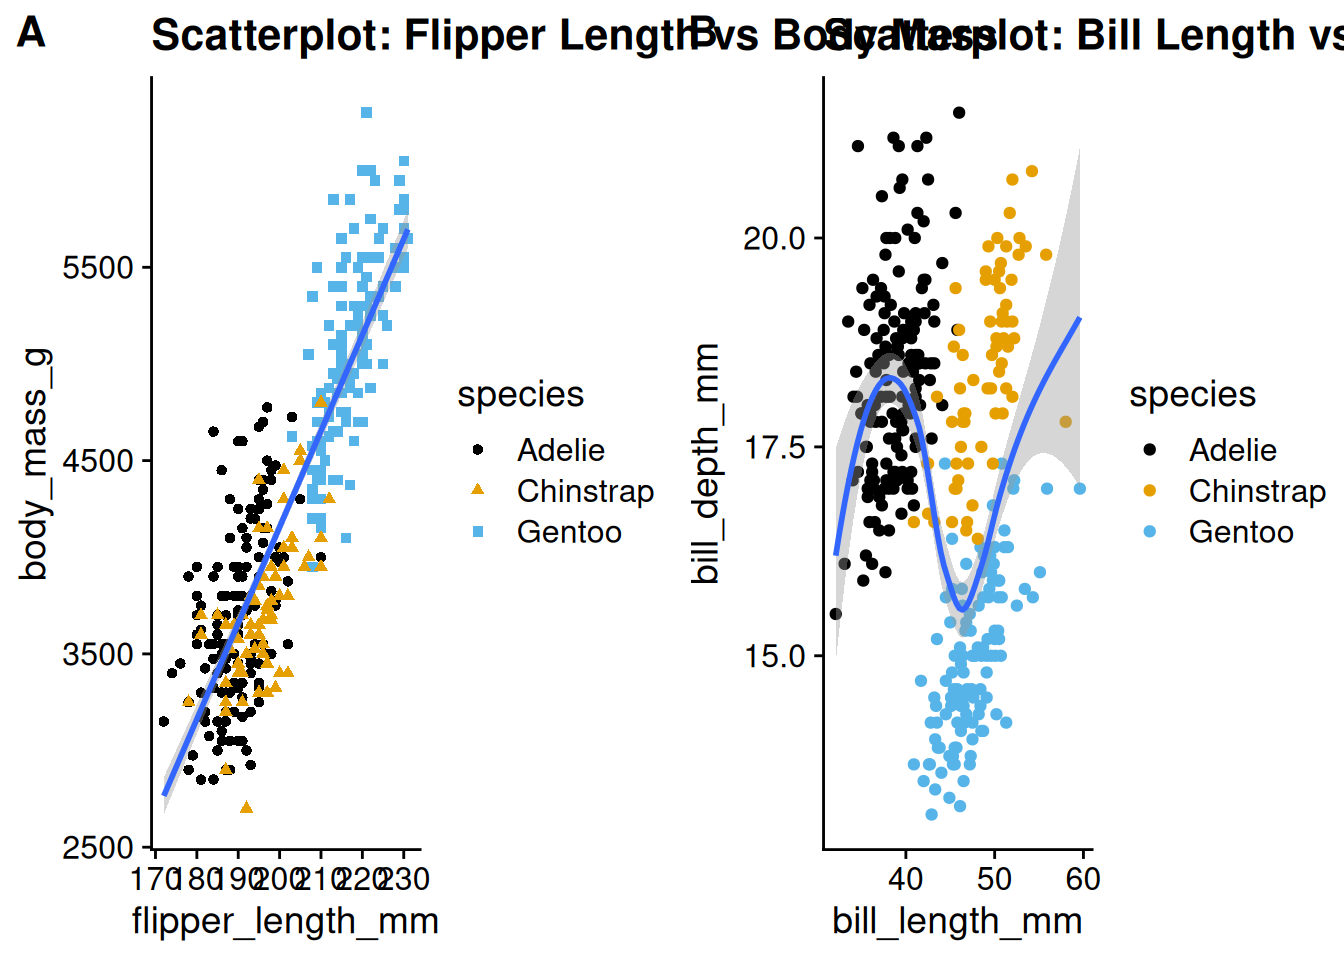
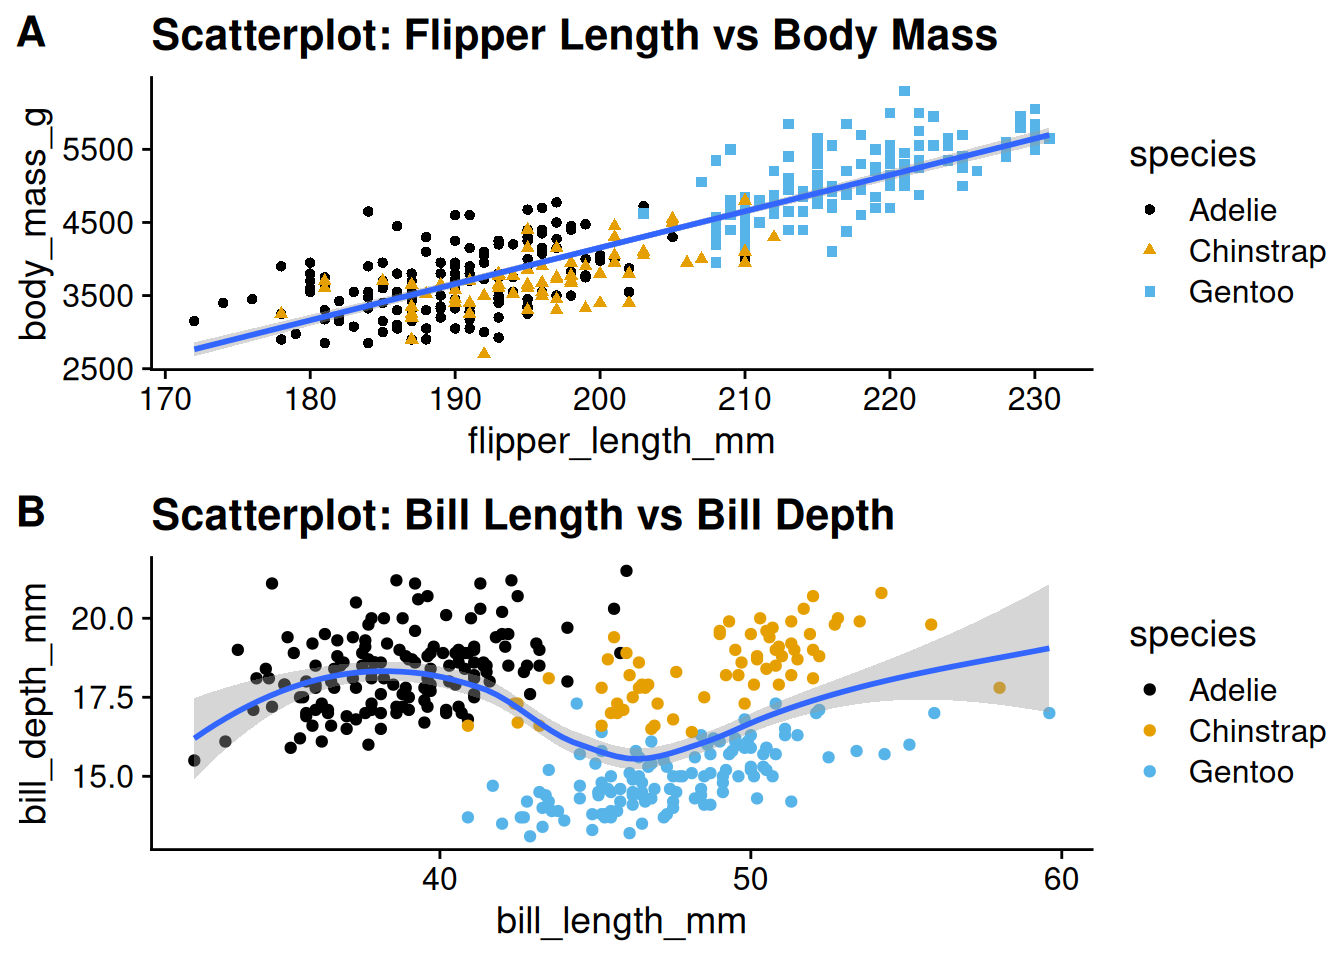
Use one column

diff --git a/docs/tidyverse.html b/docs/tidyverse.html
@@ -385,12 +385,12 @@ pre > code.sourceCode > span > a:first-child::before { text-decoration: underlin
 <div class="sourceCode cell-code" id="cb6"><pre class="sourceCode r code-with-copy"><code class="sourceCode r"><span id="cb6-1"><a href="#cb6-1" aria-hidden="true" tabindex="-1"></a><span class="fu">head</span>(example_df)</span></code><button title="Copy to Clipboard" class="code-copy-button"><i class="bi"></i></button></pre></div>
 <div class="cell-output cell-output-stdout">
 <pre><code>    id timepoint disease_status blood_pressure
-1 id_1         1       diseased            133
-2 id_1         2       diseased            139
-3 id_1         3       diseased            139
-4 id_1         4       diseased            131
-5 id_1         5       diseased            120
-6 id_1         6       diseased            135</code></pre>
+1 id_1         1        healthy            127
+2 id_1         2        healthy            137
+3 id_1         3        healthy            129
+4 id_1         4        healthy            124
+5 id_1         5        healthy            136
+6 id_1         6        healthy            125</code></pre>
 </div>
 </div>
 <p>However, constantly having to call <code>head()</code> is not ideal. A better solution is to convert the dataframe into a tibble.</p>
@@ -429,16 +429,16 @@ pre > code.sourceCode > span > a:first-child::before { text-decoration: underlin
 <pre><code># A tibble: 10,000 × 4
    id    timepoint disease_status blood_pressure
    &lt;chr&gt;     &lt;int&gt; &lt;chr&gt;                   &lt;dbl&gt;
- 1 id_1          1 diseased                  133
- 2 id_1          2 diseased                  139
- 3 id_1          3 diseased                  139
- 4 id_1          4 diseased                  131
- 5 id_1          5 diseased                  120
- 6 id_1          6 diseased                  135
- 7 id_1          7 diseased                  125
- 8 id_1          8 diseased                  134
- 9 id_1          9 diseased                  129
-10 id_1         10 diseased                  131
+ 1 id_1          1 healthy                   127
+ 2 id_1          2 healthy                   137
+ 3 id_1          3 healthy                   129
+ 4 id_1          4 healthy                   124
+ 5 id_1          5 healthy                   136
+ 6 id_1          6 healthy                   125
+ 7 id_1          7 healthy                   126
+ 8 id_1          8 healthy                   134
+ 9 id_1          9 healthy                   136
+10 id_1         10 healthy                   126
 # ℹ 9,990 more rows</code></pre>
 </div>
 </div>
@@ -448,13 +448,13 @@ pre > code.sourceCode > span > a:first-child::before { text-decoration: underlin
 <span id="cb15-2"><a href="#cb15-2" aria-hidden="true" tabindex="-1"></a>new_tbl</span></code><button title="Copy to Clipboard" class="code-copy-button"><i class="bi"></i></button></pre></div>
 <div class="cell-output cell-output-stdout">
 <pre><code># A tibble: 5 × 2
-      x      y
-  &lt;int&gt;  &lt;dbl&gt;
-1     1 -0.460
-2     2 -0.277
-3     3 -0.435
-4     4 -2.26 
-5     5 -0.945</code></pre>
+      x       y
+  &lt;int&gt;   &lt;dbl&gt;
+1     1 -0.0741
+2     2  0.767 
+3     3 -1.28  
+4     4  0.630 
+5     5 -0.511 </code></pre>
 </div>
 </div>
 <p>Note that for a <code>tibble</code> object (i.e.&nbsp;a dataframe that has class <code>tbl_df</code>) to display as a tibble, the <code>tibble</code> package needs to be attached. So always add <code>library(tibble)</code> to the top of your script.</p>
@@ -502,19 +502,19 @@ pre > code.sourceCode > span > a:first-child::before { text-decoration: underlin
 <div class="sourceCode cell-code" id="cb22"><pre class="sourceCode r code-with-copy"><code class="sourceCode r"><span id="cb22-1"><a href="#cb22-1" aria-hidden="true" tabindex="-1"></a>UtilsDataRSV<span class="sc">::</span><span class="fu">view_cols</span>(example_df)</span></code><button title="Copy to Clipboard" class="code-copy-button"><i class="bi"></i></button></pre></div>
 <div class="cell-output cell-output-stdout">
 <pre><code>[1] "id"
- [1] "id_50"  "id_466" "id_403" "id_94"  "id_240" "id_172" "id_112" "id_310"
- [9] "id_268" "id_490" "id_61"  "id_20"  "id_218" "id_47"  "id_311" "id_477"
-[17] "id_342" "id_340" "id_295" "id_188"
+ [1] "id_225" "id_151" "id_170" "id_443" "id_413" "id_299" "id_450" "id_186"
+ [9] "id_127" "id_191" "id_436" "id_129" "id_463" "id_219" "id_470" "id_125"
+[17] "id_207" "id_318" "id_203" "id_415"
 [1] "480 unique entries not displayed"
 [1] "_____________________"
 [1] "timepoint"
-[1] 12  4  9  2  7
+[1]  6 12  8 20 11
 [1] "_____________________"
 [1] "disease_status"
-[1] "Healthy"  "diseased" "healthy" 
+[1] "healthy"  "diseased" "Healthy" 
 [1] "_____________________"
 [1] "blood_pressure"
-[1] 122.7060 127.3619 138.7339 130.7082       NA
+[1] 133.0000 124.0000 130.9553 129.2391       NA
 [1] "_____________________"</code></pre>
 </div>
 <div class="cell-output cell-output-stderr">
@@ -536,8 +536,8 @@ pre > code.sourceCode > span > a:first-child::before { text-decoration: underlin
 Columns: 4
 $ id             &lt;chr&gt; "id_1", "id_1", "id_1", "id_1", "id_1", "id_1", "id_1",…
 $ timepoint      &lt;int&gt; 1, 2, 3, 4, 5, 6, 7, 8, 9, 10, 11, 12, 13, 14, 15, 16, …
-$ disease_status &lt;chr&gt; "diseased", "diseased", "diseased", "diseased", "diseas…
-$ blood_pressure &lt;dbl&gt; 133.0000, 139.0000, 139.0000, 131.0000, 120.0000, 135.0…</code></pre>
+$ disease_status &lt;chr&gt; "healthy", "healthy", "healthy", "healthy", "healthy", …
+$ blood_pressure &lt;dbl&gt; 127.0000, 137.0000, 129.0000, 124.0000, 136.0000, 125.0…</code></pre>
 </div>
 </div>
 </section>

diff --git a/docs/ggplot2.html b/docs/ggplot2.html
@@ -776,7 +776,7 @@ Attaching package: 'cowplot'</code></pre>
 <span id="cb22-23"><a href="#cb22-23" aria-hidden="true" tabindex="-1"></a>  <span class="at">labels =</span> <span class="fu">c</span>(<span class="st">"A"</span>, <span class="st">"B"</span>),    <span class="co"># Add subplot labels</span></span>
 <span id="cb22-24"><a href="#cb22-24" aria-hidden="true" tabindex="-1"></a>  <span class="at">label_size =</span> <span class="dv">16</span>,         <span class="co"># Adjust label size if needed</span></span>
 <span id="cb22-25"><a href="#cb22-25" aria-hidden="true" tabindex="-1"></a>  <span class="at">align =</span> <span class="st">"hv"</span>,            <span class="co"># Align both horizontally and vertically</span></span>
-<span id="cb22-26"><a href="#cb22-26" aria-hidden="true" tabindex="-1"></a>  <span class="at">ncol =</span> <span class="dv">2</span></span>
+<span id="cb22-26"><a href="#cb22-26" aria-hidden="true" tabindex="-1"></a>  <span class="at">ncol =</span> <span class="dv">1</span></span>
 <span id="cb22-27"><a href="#cb22-27" aria-hidden="true" tabindex="-1"></a>)                <span class="co"># Arrange side by side</span></span></code><button title="Copy to Clipboard" class="code-copy-button"><i class="bi"></i></button></pre></div>
 <div class="cell-output cell-output-stderr">
 <pre><code>`geom_smooth()` using formula = 'y ~ x'</code></pre>

diff --git a/CHANGELOG.md b/CHANGELOG.md
@@ -1,5 +1,7 @@
 # CHANGELOG
 
+- Patch (v1.0.51): Miguel Rodo (2025-02-09 11:51:39)
+  - Use one column
 - Patch (v1.0.50): Miguel Rodo (2025-02-09 11:49:06)
   - Add plotting content
 - Patch (v1.0.49): Miguel Rodo (2025-02-09 11:11:50)
